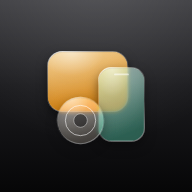
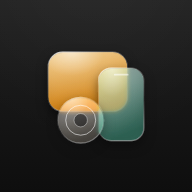
Versione 2.9.1: icona con fondo più scuro, grigio neutro
Il fondo andava da #3a3a3e (più un riflesso bianco al 14%) a quasi nero e
risultava molto più chiaro delle icone di sistema su iOS. Ora #232323 →
#171717 → #0e0e0e con riflesso al 3,5%, misurato sulle icone di Wallet,
Impostazioni e Musica; PNG rigenerati dallo stesso SVG.

Claude-Session: https://claude.ai/code/session_014KuWofuGoEEWU311u5tiN4

diff --git a/index.html b/index.html
@@ -817,8 +817,9 @@ html.lgs #toast{-webkit-backdrop-filter:blur(14px) saturate(1.8);backdrop-filter
 const $=(s,r=document)=>r.querySelector(s);
 const esc=s=>String(s==null?'':s).replace(/[&<>"']/g,c=>({'&':'&amp;','<':'&lt;','>':'&gt;','"':'&quot;',"'":'&#39;'}[c]));
 /* versione dell'app: a ogni modifica sale (1.1, 1.2…; 2.0 per i cambi grandi). Deve coincidere con V in sw.js */
-const APP_VER='2.9';
+const APP_VER='2.9.1';
 const NOVITA=[
+ ['2.9.1','2026-11-19',['Icona con il fondo più scuro, grigio neutro come le icone di sistema: le lastre di vetro risaltano di più (su iPhone si vede dopo aver tolto e rimesso l\'app nella Home)']],
  ['2.9','2026-11-18',['Oggi: scorri una voce verso sinistra per rimandarla a domani o a un intervallo a scelta (3 giorni, una settimana, due settimane, un mese, una data); scorrendo fino in fondo va a domani','📷 Dalla foto dell\'etichetta: Gemini legge modello, EMC e numero di serie e cerca la scheda; nel modulo «Leggi dall\'etichetta» riempie i campi vuoti','✨ Stima del valore con Gemini nella sezione Valore: forbice, prezzo tipico e fonti, poi con un tocco nello storico','🧩 Cosa manca (Menu): per ogni linea Apple che hai, i modelli che mancano, da mettere in wishlist con un tocco','Pressione lunga su un oggetto: anche Acceso oggi, Caricato oggi, Sposta e Aggiungi intervento','Tira giù dalla cima dell\'elenco per sincronizzare; scorciatoie tenendo premuta l\'icona (Aggiungi, Manutenzione, Cerca); ultime ricerche suggerite; codici a barre con la fotocamera nella ricerca','Giro di manutenzione: la ✗ chiede cosa non va (batteria che non regge, batteria morta, non si accende); le batterie esaurite escono dal giro di ricarica e resta l\'accensione','Animazioni: finestre e fogli si chiudono trascinandoli in basso, l\'elenco si riordina con movimento, Salva diventa una spunta, statistiche che contano e grafici che si disegnano, vibrazioni leggere uniformi (spegnibili)']],
  ['2.8.2','2026-11-18',['Miniature: le foto verticali sono centrate (prima si vedeva solo la parte alta)','Chiudendo una scheda la foto atterra esattamente sulla miniatura, senza lo scatto finale','Barra in fondo: Collezione/Wishlist e il tasto + centrati alla stessa altezza, e la goccia copre esattamente la voce scelta']],
  ['2.8.1','2026-11-18',['RAM e memoria lette meglio da EveryMac: anche per iPhone, iPod e iPad («Onboard RAM», «Storage Capacity») e per i Mac vecchi (disco «Standard Hard Drive»), con una ricerca di riserva su ogni voce che parli di RAM o memoria','Tagli di memoria: quando EveryMac elenca più versioni (es. 8, 16 GB o 32 MB, 64 MB) nel modulo compaiono come scelte rapide sotto Archiviazione e RAM; un tocco aggiorna il campo e anche il nome (es. «iPhone 3G 16 GB»)']],

diff --git a/sw.js b/sw.js
@@ -1,4 +1,4 @@
-const V='rddc-2.9',SHELL=['./','index.html','manifest.webmanifest','icon.svg','icon-192.png','icon-512.png','icon-maskable-512.png','apple-touch-icon.png'];
+const V='rddc-2.9.1',SHELL=['./','index.html','manifest.webmanifest','icon.svg','icon-192.png','icon-512.png','icon-maskable-512.png','apple-touch-icon.png'];
 self.addEventListener('install',e=>{e.waitUntil(caches.open(V).then(c=>c.addAll(SHELL.map(u=>new Request(u,{cache:'reload'})))).then(()=>self.skipWaiting()))});
 self.addEventListener('activate',e=>{e.waitUntil(caches.keys().then(k=>Promise.all(k.filter(x=>x!==V&&x!=='rddc-share'&&x!=='rddc-meta').map(x=>caches.delete(x)))).then(()=>self.clients.claim()))});
 /* prima la rete, saltando la cache HTTP (così un aggiornamento arriva subito); offline usa la copia salvata */

diff --git a/README.md b/README.md
@@ -147,7 +147,7 @@ Con il worker collegato l'app usa solo quello (i proxy pubblici restano per chi 
 - Trovati i dati, il tasto di ricerca diventa **«✓ Inserisci i dati»** e a sinistra compare un piccolo **↻** per ripetere la ricerca.
 
 ## Grafica (2.0): Liquid Glass
-- **Icona**: schermo, palmare e ghiera come tre lastre di vetro sovrapposte su fondo nero-grigio (`icon.svg`, PNG da 192 e 512). C'è la versione «maskable», ritagliabile tonda da Android senza perdere niente, e quella monocromatica per le icone a tema (Android le colora con i colori dello sfondo).
+- **Icona**: schermo, palmare e ghiera come tre lastre di vetro sovrapposte su fondo grigio scuro neutro (dalla 2.9.1 più scuro, in linea con le icone di sistema) (`icon.svg`, PNG da 192 e 512). C'è la versione «maskable», ritagliabile tonda da Android senza perdere niente, e quella monocromatica per le icone a tema (Android le colora con i colori dello sfondo).
 Dalla versione 2.0 l'interfaccia è ridisegnata da capo attorno al vetro liquido, con le stesse funzioni di prima:
 - sfondo con macchie di colore morbide (ambra, terracotta, verde), diverse in chiaro e in scuro;
 - tutte le superfici (schede della lista, griglia, tabelle, liste, note, campi, pulsanti, finestre) sono di vetro: traslucide, con il bordo luminoso e angoli più tondi;
